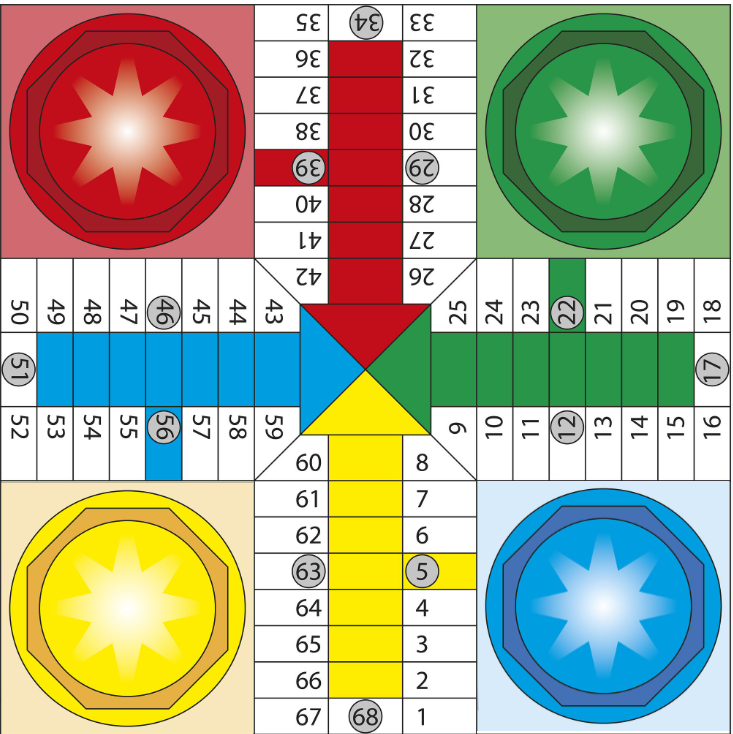
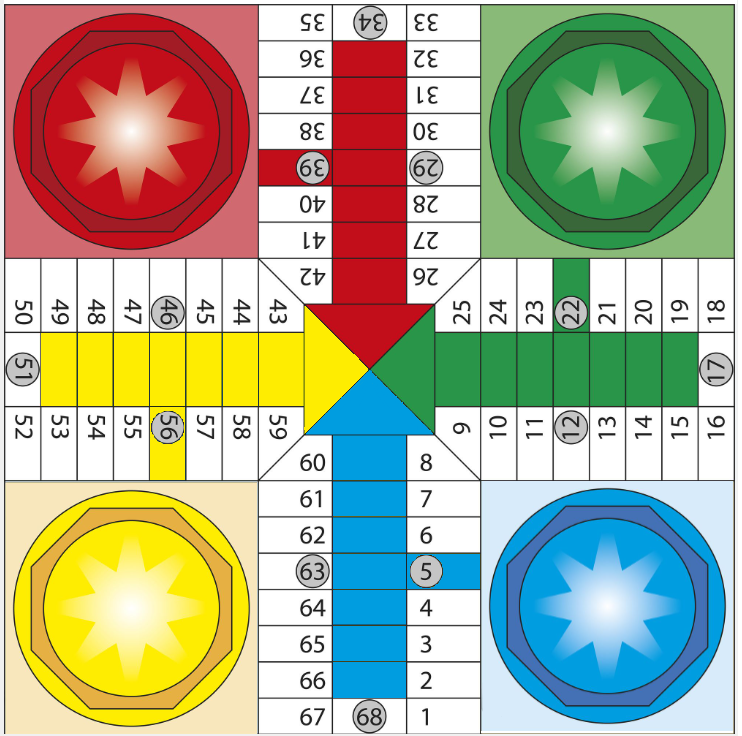
Correciones a la interfaz

diff --git a/PRUEBA_INTERFAZ.py b/PRUEBA_INTERFAZ.py
@@ -69,20 +69,25 @@ def procesar_mensaje(mensaje):
             cliente = mensaje["cliente"]
             jugadores = mensaje["jugadores"]
             estado_partida = mensaje["estado_partida"]
-            nuevo_mensaje = f"Se ha conectado el cliente {cliente}. Hay {jugadores} jugadores en la partida. Estado de la partida: {estado_partida}."
+            informacion = f"Se ha conectado el cliente {cliente}.\nHay {jugadores} jugadores en la partida.\nEstado de la partida: {estado_partida}."
+            messagebox.showinfo("Mensaje recibido", informacion)
         elif tipo == "desconexion":
             cliente = mensaje["cliente"]
             jugadores = mensaje["jugadores"]
             estado_partida = mensaje["estado_partida"]
-            nuevo_mensaje = f"Se ha desconectado el cliente {cliente}. Quedan {jugadores} jugadores en la partida. Estado de la partida: {estado_partida}."
+            informacion = f"Se ha desconectado el cliente {cliente}.\nQuedan {jugadores} jugadores en la partida.\nEstado de la partida: {estado_partida}."
+            messagebox.showinfo("Mensaje recibido", informacion)
         elif tipo == "finalizar":
             ganador = mensaje["ganador"]
-            nuevo_mensaje = f"La partida ha finalizado. El ganador es {ganador}."
+            informacion = f"La partida ha finalizado.\nEl ganador es {ganador}."
+            messagebox.showinfo("Mensaje recibido", informacion)
         elif tipo == "denegado":
             razon = mensaje["razon"]
-            nuevo_mensaje = f"La solicitud ha sido denegada. Razón: {razon}."
+            informacion = f"La solicitud ha sido denegada.\nRazón: {razon}."
+            messagebox.showinfo("Mensaje recibido", informacion)
         else:
-            nuevo_mensaje = "Mensaje desconocido"
+            informacion = "Mensaje desconocido"
+            messagebox.showinfo("Mensaje recibido", informacion)
     else:
         if "turno_actual" in mensaje:
             turno_actual = mensaje["turno_actual"]
@@ -92,12 +97,12 @@ def procesar_mensaje(mensaje):
             ultima_ficha = mensaje["ultima_ficha"]
             ultimo_turno = mensaje["ultimo_turno"]
             jugadores = mensaje["jugadores"]
-            
+            # Crear mensaje
             nuevo_mensaje = f"Es el turno de {turno_actual}.\nSe espera una solicitud de {solicitud_esperada}.\nEl estado de la partida es {estado_partida}.\n"
             nuevo_mensaje += f"Últimos dados lanzados: D1={ultimos_dados['D1']}, D2={ultimos_dados['D2']}.\n"
             nuevo_mensaje += f"Última ficha movida: {ultima_ficha}.\n"
             nuevo_mensaje += f"Último turno jugado por {ultimo_turno}.\n"
-            
+            # Mostrar jugadores
             for jugador in jugadores:
                 nombre = jugador["nombre"]
                 color = jugador["color"]
@@ -112,16 +117,18 @@ def procesar_mensaje(mensaje):
                 nuevo_mensaje += "Contadores de fichas:\n"
                 for ficha, contador in contadores_fichas.items():
                     nuevo_mensaje += f"- {ficha}: {contador}\n"
+            # Mostrar mensaje
+            mostrar_respuesta(nuevo_mensaje)
         elif "Blue" in mensaje:
-            # {"Yellow": True , "Blue": True, "Green": True, "Red": True}
             blue = mensaje["Blue"]
             yellow = mensaje["Yellow"]
             green = mensaje["Green"]
             red = mensaje["Red"]
-            nuevo_mensaje = f"Colores disponibles:\nBlue: {blue}\nYellow: {yellow}\nGreen: {green}\nRed: {red}\n"
+            informacion = f"Colores disponibles:\nBlue: {blue}\nYellow: {yellow}\nGreen: {green}\nRed: {red}\n"
+            messagebox.showinfo("Mensaje recibido", informacion)
         else:
-            nuevo_mensaje = "Mensaje desconocido"
-    mostrar_respuesta(nuevo_mensaje)
+            informacion = "Mensaje desconocido"
+            messagebox.showinfo("Mensaje recibido", informacion)
 
 #Hilo para estar en constante funcionamiento
 thread = threading.Thread(target=receive_messages)
@@ -133,7 +140,7 @@ thread2.start()
 def solicitud_color():
     solicitud = {"tipo": "solicitud_color"}
     cliente.sendall(json.dumps(solicitud).encode('utf-8'))
-    messagebox.showinfo("Solicitud enviada", f"Solicitud: Solicitud color")
+    #messagebox.showinfo("Solicitud enviada", f"Solicitud: Solicitud color")
 
 #Enviar solicitud de eleccion de color
 def seleccion_color():
@@ -149,9 +156,14 @@ def seleccion_color():
         ventana_emergente = tk.Tk()
         ventana_emergente.title("Elegir color")
         # Crear los botones de colores
-        for color in ["Red", "Green", "Blue", "Yellow"]:
-            boton = tk.Button(ventana_emergente, text=color, command=lambda: (enviar_datos(nombre, color), ventana_emergente.destroy()), padx=20)
-            boton.pack(pady=5)
+        boton = tk.Button(ventana_emergente, text="Red", command=lambda: (enviar_datos(nombre, "Red"), ventana_emergente.destroy()), padx=20)
+        boton.pack(pady=5)
+        boton2 = tk.Button(ventana_emergente, text="Blue", command=lambda: (enviar_datos(nombre, "Blue"), ventana_emergente.destroy()), padx=20)
+        boton2.pack(pady=5)
+        boton3 = tk.Button(ventana_emergente, text="Green", command=lambda: (enviar_datos(nombre, "Green"), ventana_emergente.destroy()), padx=20)
+        boton3.pack(pady=5)
+        boton3 = tk.Button(ventana_emergente, text="Yellow", command=lambda: (enviar_datos(nombre, "Yellow"), ventana_emergente.destroy()), padx=20)
+        boton3.pack(pady=5)
 
     # Crear la ventana emergente
     ventana_emergente = tk.Tk()
@@ -171,7 +183,7 @@ def seleccion_color():
 def solicitud_iniciar_partida():
     solicitud = {"tipo": "solicitud_iniciar_partida"}
     cliente.sendall(json.dumps(solicitud).encode('utf-8'))
-    messagebox.showinfo("Solicitud enviada", f"Solicitud: Iniciar partida")
+    #messagebox.showinfo("Solicitud enviada", f"Solicitud: Iniciar partida")
 
 #Enviar solicitud de lanzar los dados
 def solicitud_lanzar_dados():
@@ -179,7 +191,7 @@ def solicitud_lanzar_dados():
     d2 = random.randint(1, 6)
     solicitud = {"tipo": "lanzar_dados", "dados": {"D1": d1, "D2": d2}}
     cliente.sendall(json.dumps(solicitud).encode('utf-8'))
-    messagebox.showinfo("Solicitud enviada", f"Solicitud: Lanzar dados \n\nDados: {d1} y {d2}")
+    #messagebox.showinfo("Solicitud enviada", f"Solicitud: Lanzar dados \n\nDados: {d1} y {d2}")
 
 #Enviar solicitud de sacar ficha del tablero (ficha en estado de meta)
 def solicitud_sacar_ficha():
@@ -188,7 +200,7 @@ def solicitud_sacar_ficha():
         solicitud = {"tipo": "sacar_ficha", "ficha": ficha}
         cliente.sendall(json.dumps(solicitud).encode('utf-8'))
         # Mostrar los valores en un mensaje de información
-        messagebox.showinfo("Solicitud enviada", f"Solicitud: Sacar ficha")
+        #messagebox.showinfo("Solicitud enviada", f"Solicitud: Sacar ficha")
         # Cerrar la ventana emergente
         ventana_emergente.destroy()
 
@@ -204,7 +216,7 @@ def solicitud_sacar_ficha():
 def solicitud_sacar_carcel():
     solicitud = {"tipo": "sacar_carcel", "ficha": "F1"}
     cliente.sendall(json.dumps(solicitud).encode('utf-8'))
-    messagebox.showinfo("Solicitud enviada", f"Solicitud: Sacar carcel")
+    #messagebox.showinfo("Solicitud enviada", f"Solicitud: Sacar carcel")
 
 #Enviar solicitud de mover ficha en el tablero
 def solicitud_mover_ficha():
@@ -213,7 +225,7 @@ def solicitud_mover_ficha():
         solicitud = {"tipo": "mover_ficha", "ficha": ficha}
         cliente.sendall(json.dumps(solicitud).encode('utf-8'))
         # Mostrar los valores en un mensaje de información
-        messagebox.showinfo("Solicitud enviada", f"Solicitud: Mover ficha")
+        #messagebox.showinfo("Solicitud enviada", f"Solicitud: Mover ficha")
         # Cerrar la ventana emergente
         ventana_emergente.destroy()
 
@@ -229,7 +241,7 @@ def solicitud_mover_ficha():
 def solicitud_bot():
     solicitud = {"tipo": "solicitud_bot"}
     cliente.sendall(json.dumps(solicitud).encode('utf-8'))
-    messagebox.showinfo("Solicitud enviada", f"Solicitud: Activar bot")
+    #messagebox.showinfo("Solicitud enviada", f"Solicitud: Activar bot")
 
 # Crear la ventana principal
 ventana = tk.Tk()
@@ -252,14 +264,14 @@ for i, solicitud in enumerate(solicitudes):
     boton = tk.Button(ventana, text=solicitud, command=lambda solicitud=solicitud: solicitudes[solicitud]())
     boton.grid(row=i, column=0, pady=5)
 
+# Agregar imagen del tablero
+imagen_tablero = tk.PhotoImage(file="tablero.png")
+tablero_label = tk.Label(ventana, image=imagen_tablero)
+tablero_label.grid(row=0, column=1, rowspan=len(solicitudes) + 1, padx=10)
+
 # Agregar área para mostrar la respuesta del servidor
 respuesta_texto = tk.Text(ventana, width=40, height=25)
 respuesta_texto.grid(row=len(solicitudes), column=0, pady=5)
-
-# Agregar imagen del tablero
-imagen_tablero = tk.PhotoImage(file="Tablero_right.png")
-tablero_label = tk.Label(ventana, image=imagen_tablero)
-tablero_label.grid(row=0, column=1, rowspan=len(solicitudes) + 1, padx=10)
 
 # Función para mostrar la respuesta del servidor
 def mostrar_respuesta(respuesta):

diff --git a/SERVIDOR.py b/SERVIDOR.py
@@ -8,7 +8,7 @@ Santiago Posada Florez
 Cristian Andres Grajales Perez
 
 Nota: Ver 'estructura.txt' para conocer la estructura de los mensajes
-Nota 2: Ver 'tablero.png' para conocer la estructura del tablero (Los colores Blue y Yellow estan invertidos)
+Nota 2: Ver 'tablero.png' para conocer la estructura del tablero
 '''
 
 # Librerias
@@ -202,7 +202,7 @@ class Cliente(threading.Thread):
         elif color not in ["Yellow", "Blue", "Green", "Red"]:
             respuesta = {"tipo": "denegado", "razon": "color no valido"}
         elif not colores_disponibles[color]:
-            respuesta = {"tipo": "denegado", "razon": "color no disponible"}
+            respuesta = {"tipo": "denegado", "razon": f"el color {color} no esta disponible"}
 
         # Se rechaza o se ejecuta la solicitud
         if respuesta:
